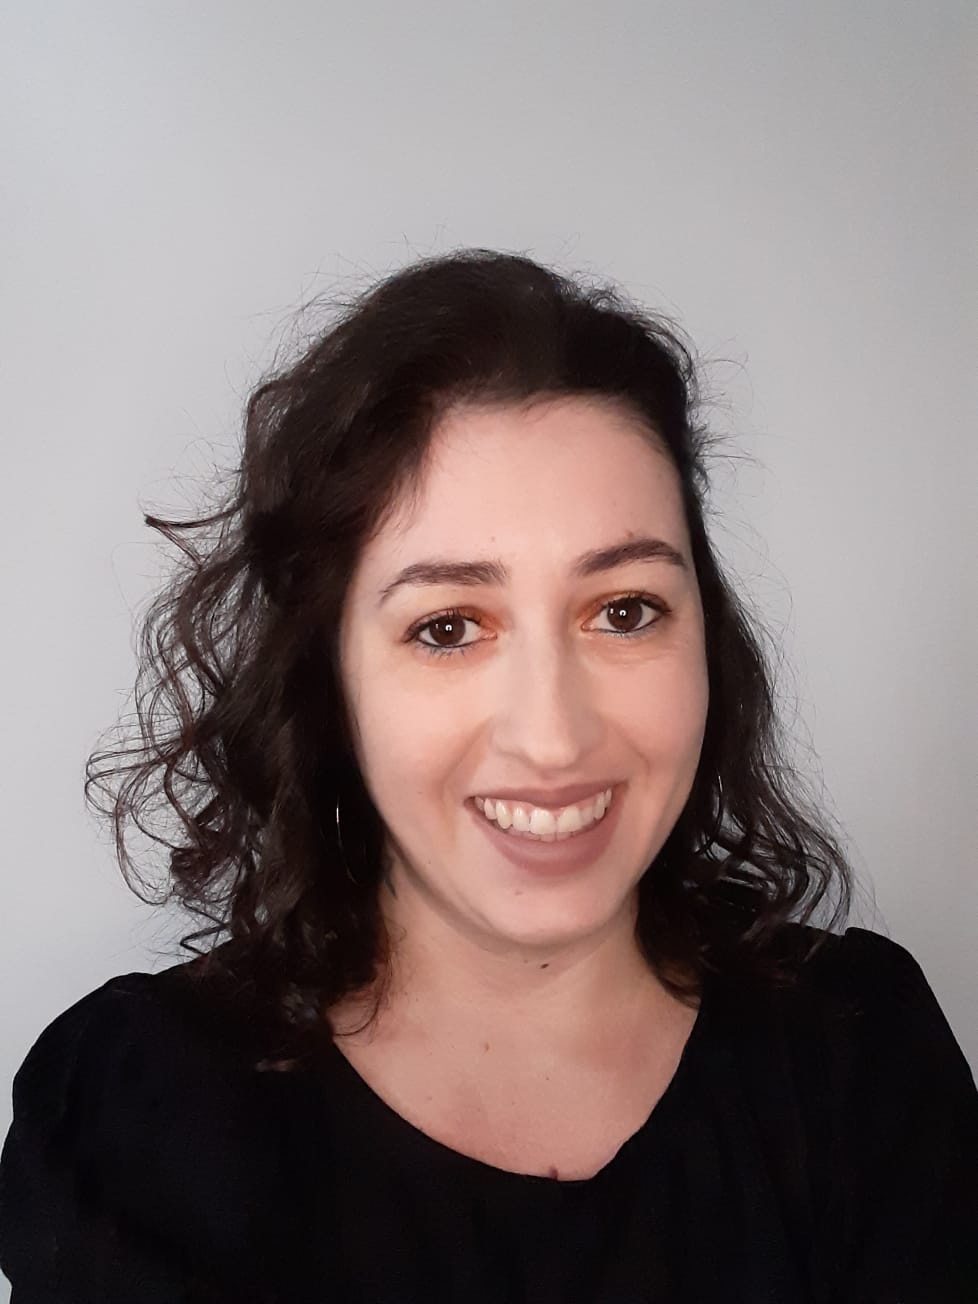
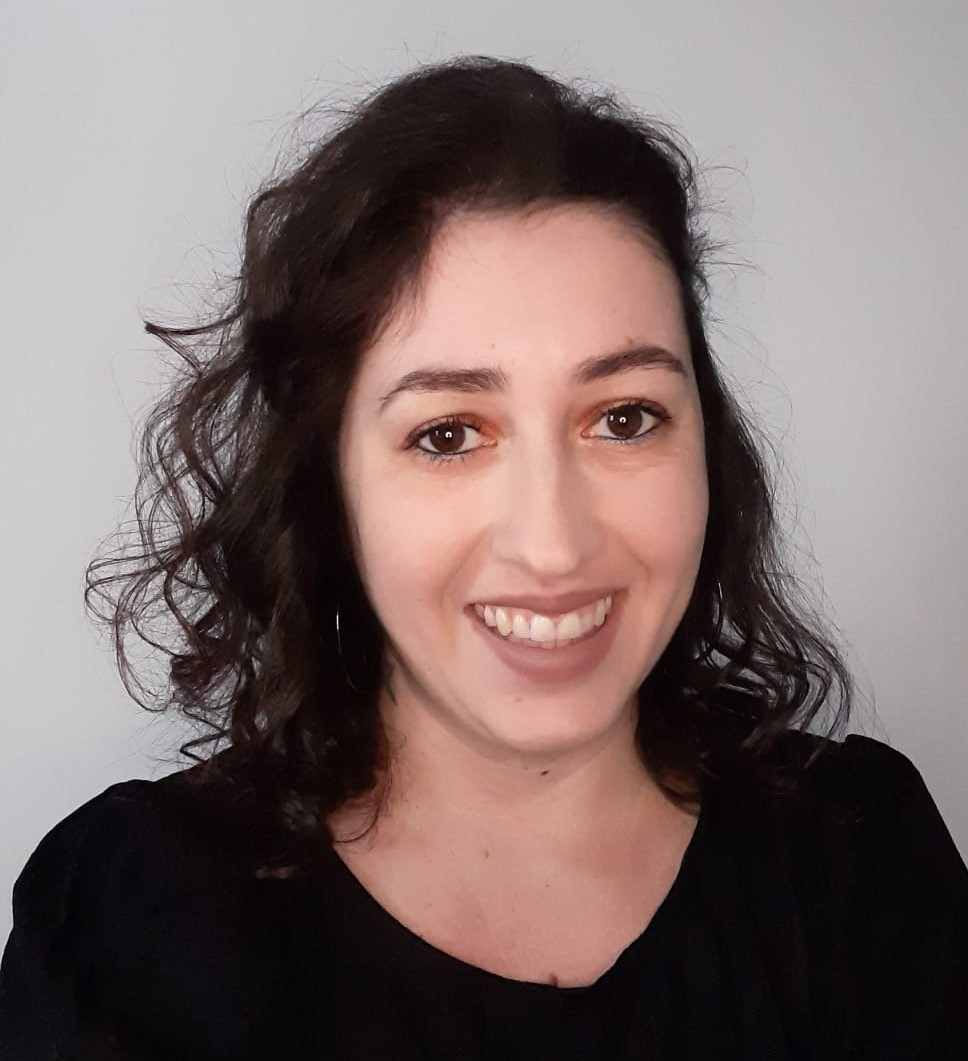
atualizando projeto

diff --git a/index.html b/index.html
@@ -12,33 +12,47 @@
         <h1><strong>Anderli Nardes</strong></h1>
     </header>
     <nav>
-        <a href="sobre">Sobre</a>
-        <a href="curiosidades">Curiosidades</a>
-        <a href="contato" >Contato</a>
+        <a href="#sobre">Sobre</a>
+        <a href="#curiosidade">Curiosidade</a>
+        <a href="#contato" >Contato</a>
     </nav>
-        <main>
-                <section id="sobre">
-                    <div>
-                        <h2><strong>Sobre</strong></h2>
-                        <img src="imagem/FotoPerfil.jpeg" alt="Foto de Anderli Nardes">
-                        <p>Meu nome é Anderli Nardes, sou natural de Blumenau/SC, onde desenvolvi minha trajetória profissional e acumulei mais de 12 anos de experiência em atendimento ao cliente. Durante esse período, desenvolvi habilidades sólidas de resolução de problemas. Ao longo desse período, aprendi a entender as necessidades dos clientes e a trabalhar de forma eficaz sob pressão, sempre buscando oferecer a melhor experiência possível.</p>
-                        <p>Atualmente, estou em busca de oportunidades para migrar para a área de TI. Estou estudando [insira cursos ou tecnologias que você está aprendendo, como programação, desenvolvimento web, etc.], e estou motivada com a possibilidade de aplicar minha experiência em atendimento para melhorar a experiência do usuário em soluções tecnológicas.</p>
-                        <p>Acredito que minha habilidade de atenção aos detalhes, combinada com minha experiência em trabalho em equipe, me proporciona uma perspectiva única para entender e atender as necessidades do usuário final. Estou disposta a colaborar com profissionais da área, aprendendo e contribuindo para projetos que façam a diferença.</p>
-                    </div>
-                </section>
-            <div id="curiosidades">
-                <h2><strong>Curiosidade</strong></h2>
-                <p> Casada, 1 filha.</p>
+    <main>
+        <div id="sobre">
+            <h2><strong>Sobre</strong></h2>
+            
+            <div style="display: flex; align-items: center; box-shadow: none;" >
+                <img src="imagem/FotoPerfil.jpeg" class="sobre" alt="Foto de Anderli Nardes" style="width: 300px; height: 300px;">
+                <div style="box-shadow: none;">
+                    <p>Meu nome é Anderli Nardes, sou natural de Blumenau/SC, onde desenvolvi minha trajetória profissional e acumulei mais de 12 anos de experiência em atendimento ao cliente. Durante esse período, desenvolvi habilidades sólidas de resolução de problemas. Ao longo desse período, aprendi a entender as necessidades dos clientes e a trabalhar de forma eficaz sob pressão, sempre buscando oferecer a melhor experiência possível.</p>
+                    <p>Atualmente, estou em busca de oportunidades para migrar para a área de TI. Estou estudando programação, HTML, CSS, e estou motivada com a possibilidade de aplicar minha experiência em atendimento para melhorar a experiência do usuário em soluções tecnológicas.</p>
+                    <p>Acredito que minha habilidade de atenção aos detalhes, combinada com minha experiência em trabalho em equipe, me proporciona uma perspectiva única para entender e atender as necessidades do usuário final. Estou disposta a colaborar com profissionais da área, aprendendo e contribuindo para projetos que façam a diferença.</p>
+                </div>
             </div>
-            <div id="contato">
-                <h2><strong>Contato</strong></h2>
-                <img src="imagem/phoneContato.png" alt="Foto Contato">
-                <p>(47) 99143-1610</p>
-                <img src="imagem/emailContato.png" alt="Email Contato">
-                <p>anardes3@gmail.com</p>
-                <img src="imagem/gitContato.png" alt="Git Contato">
-                <p>https://github.com/anderlinardes</p>
-            </div>
-        </main>
-        </body>
-    </html>
+        </div>
+        
+        
+        <div id="curiosidade">
+            <h2><strong>Curiosidade</strong></h2>
+            <p> Sou casada e mãe de uma filha pré-adolescente. Minha família é uma das minhas maiores alegrias.</p>
+            <p>Tenho uma conexão especial com a natureza, especialmente com o mar e a lua, que me inspiram e trazem uma sensação de paz. Adoro cuidar de suculentas, que trazem um toque de vida e beleza ao meu lar. Embora não seja fã de cozinhar, gosto de assistir a programas de culinária e design de casas, sempre em busca de novas ideias e inspirações.</p>
+            <p>Uma curiosidade sobre mim é que, quando completei 18 anos, conquistei minha CNH em segredo do meu pai, que achava que eu iria reprovar. As aulas práticas aconteciam nas tardes quentes de verão, e o sufoco foi real! Passei de primeira! Essa experiência me ensinou a não desistir diante dos desafios e sempre buscar superar minhas próprias expectativas.</p>
+        </div>
+
+        <div class="contato" id="contato">
+            <h2><strong>Contato</strong></h2>
+            <p class="contato-item">
+                <img src="imagem/telefoneContato.png" class="contato-img" alt="Telefone de Contato">
+                (47) 99143-1610
+            </p>
+            <p class="contato-item">
+                <img src="imagem/emailContato.png" class="contato-img" alt="Email de Contato">
+                anardes3@gmail.com
+            </p>
+            <p class="contato-item">
+                <img src="imagem/githubContato.png" class="contato-img" alt="Perfil do GitHub">
+                <a href="https://github.com/anderlinardes" target="_blank">github.com/anderlinardes</a>
+            </p>
+        </div>      
+    </main>
+</body>
+</html>

diff --git a/style.css b/style.css
@@ -1,12 +1,18 @@
 @charset "UTF-8";
 
+@import url('https://fonts.googleapis.com/css2?family=Cinzel:wght@400..900&display=swap');
+@import url('https://fonts.googleapis.com/css2?family=Cinzel:wght@400..900&family=Roboto:ital,wght@0,100;0,300;0,400;0,500;0,700;0,900;1,100;1,300;1,400;1,500;1,700;1,900&display=swap');
+
 :root {
     --cor01: #CCC098;
     --cor02: #EFE6CD;
     --cor03: #7D8758;
-    --cor04: #C5B67B;
-    --cor05: #9EA58D;
-}
+    --cor04: #474d33;
+    --cor05: #C5B67B;
+    --cor06: #9EA58D;
+    --fonte-titulo: "Cinzel", serif;
+    --fonte-padrao: "Roboto", sans-serif;
+} 
 
 body {
     background-color: var(--cor03);
@@ -18,28 +24,22 @@ header {
     color: var(--cor02); 
     padding: 20px; 
     text-align: center;
+    font-family: var(--fonte-titulo);
+    font-size: 2em;
+    text-shadow: 7px 3px 3px rgba(0, 0, 0, 0.411);
 }
 
 nav {
     display: flex;
     justify-content: flex-end;
-    padding: 10px;
- }
-
- nav a {
-    margin: 0 15px; 
-    text-decoration: none;
-    color: red;
-}
-
-nav a:hover {
-    text-decoration: underline;
+    padding: 5px;
+    font-family: var(--fonte-padrao);
 }
 
 nav a {
     margin: 0 15px; 
     text-decoration: none;
-    color: var(--cor02);
+    color: var(--cor01);
 }
 
 nav a:hover {
@@ -48,23 +48,52 @@ nav a:hover {
 
 main {
     padding: 20px;
+    margin: 0 auto; /* Centraliza o conteúdo */
 }
 
 div {
     max-width: 1000px;
-    margin: 0 auto;
+    margin: 20px auto; /* Aumenta o espaçamento entre os divs */
     background-color: var(--cor02);
     padding: 20px;
     border-radius: 15px;
-    box-shadow: 0 2px 8px rgba(0, 0, 0, 0.1);
+    box-shadow: 0px 0px 10px rgba(0, 0, 0, 0.507);
+    font-family: var(--fonte-padrao);
+    font-size: 1em;
+    text-align: justify;
+    text-indent: 20px;
+    line-height: 1.8em;
 }
 
-h2{
-    color: var(--cor03);
+div a:hover {
+    text-decoration: none;
+    color: var(--cor01);
+}
+
+h2 {
+    color: var(--cor04);
+    font-family: var(--fonte-padrao);
+    font-weight: bold;
 }
 
 img {
-width: 300px;
-height: 400px;
+    width: 250px;
+    height: auto;
+    border-radius: 20px;
 }
 
+.contato-img {
+    width: 40px; 
+    height: auto; 
+    margin: 10px 0;
+}
+
+.contato-item {
+    display: flex;
+    align-items: center;
+    margin: 10px 0;
+}
+
+.contato-item img {
+    margin-right: 10px;
+}
